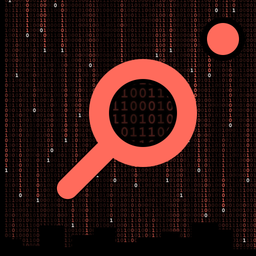
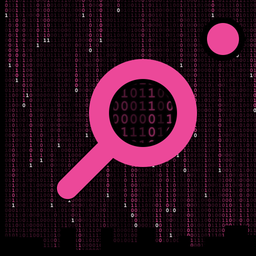
Klu: switch brand colour to magenta (#EC4899)
Update the orbit accent colour and the icon to the new distinct magenta.

Changed region(s): [[0.0, 0.0, 1.0, 1.0], [0.0312, 0.875, 0.0625, 0.9375], [0.9688, 0.0312, 1.0, 0.0625]]

diff --git a/index.html b/index.html
@@ -690,7 +690,7 @@ const APPS = [
     desc: 'A daily set of AI-generated brain puzzles, each tuned to your skill across six categories.',
     status: 'In Development',
     img: 'images/klu.png',
-    color: '#FF6B5C',
+    color: '#EC4899',
     orbit: { rx: 250, ry: 195, speed: 0.00032, phase: 4.3, wsx: 0.00009, wsy: 0.00011, wp: 2.6 },
   },
   {
